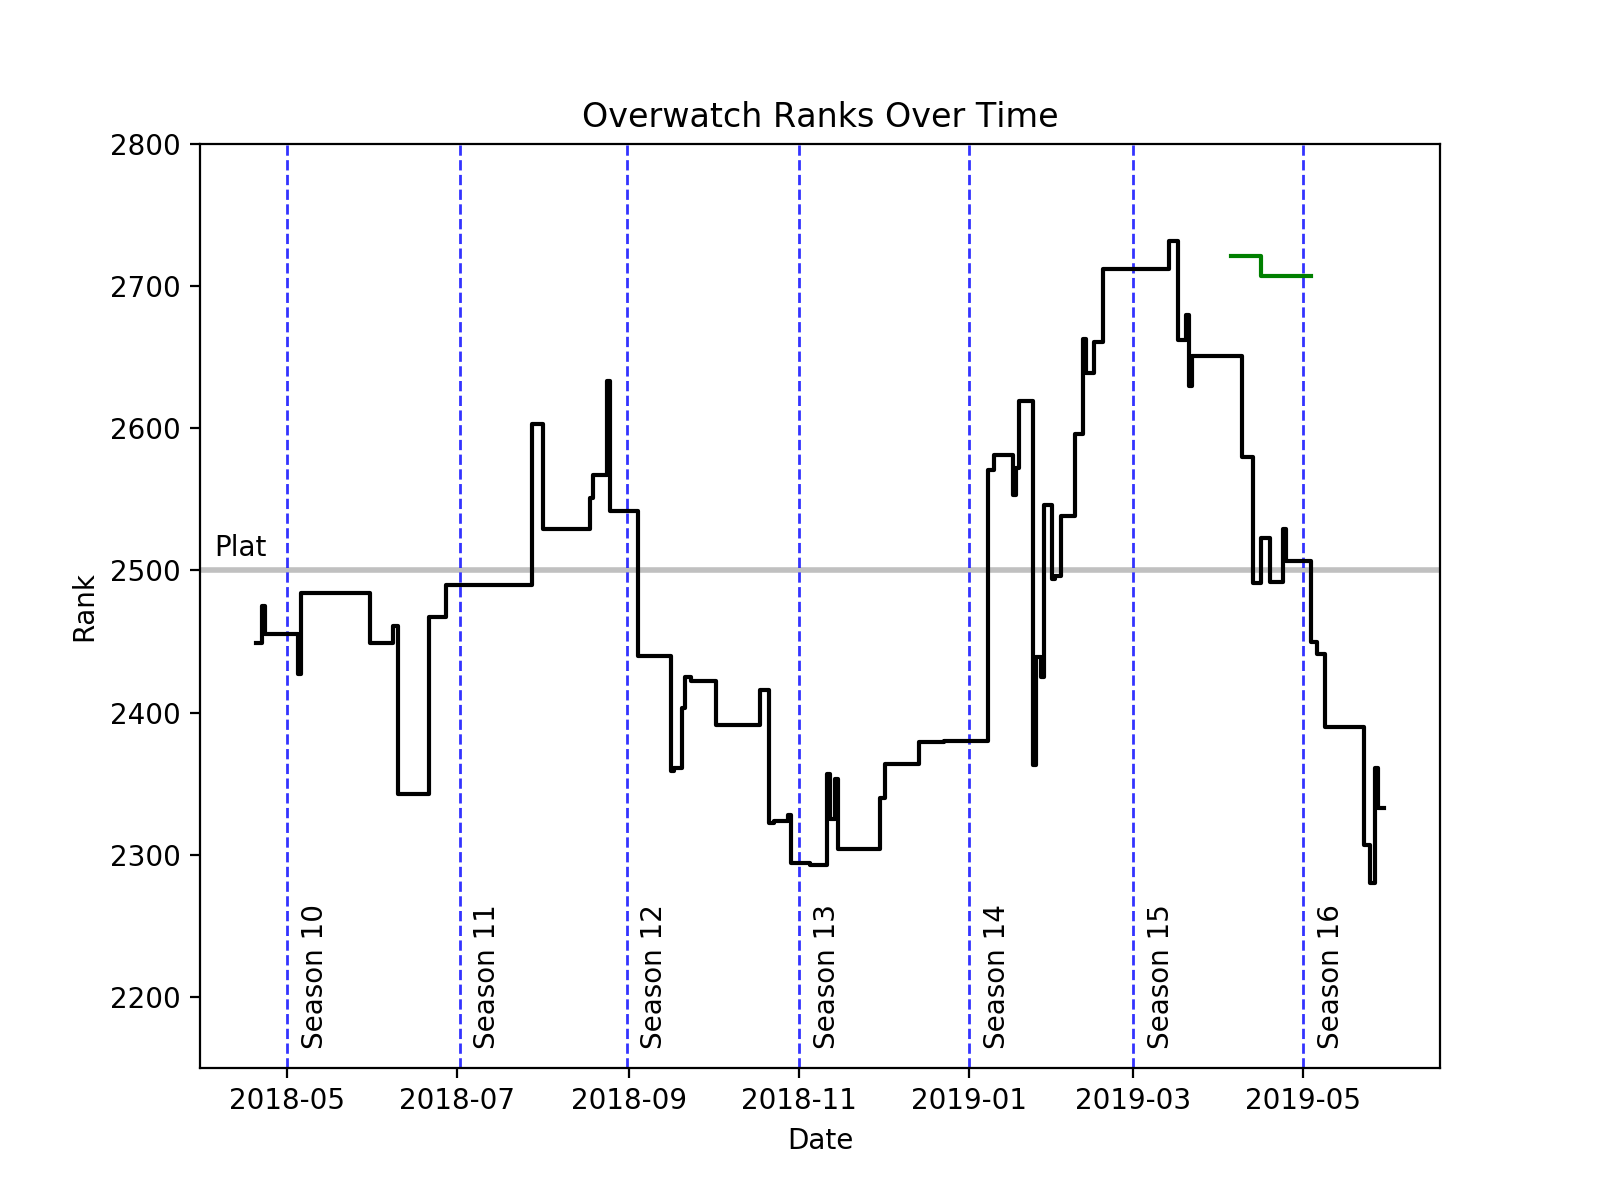
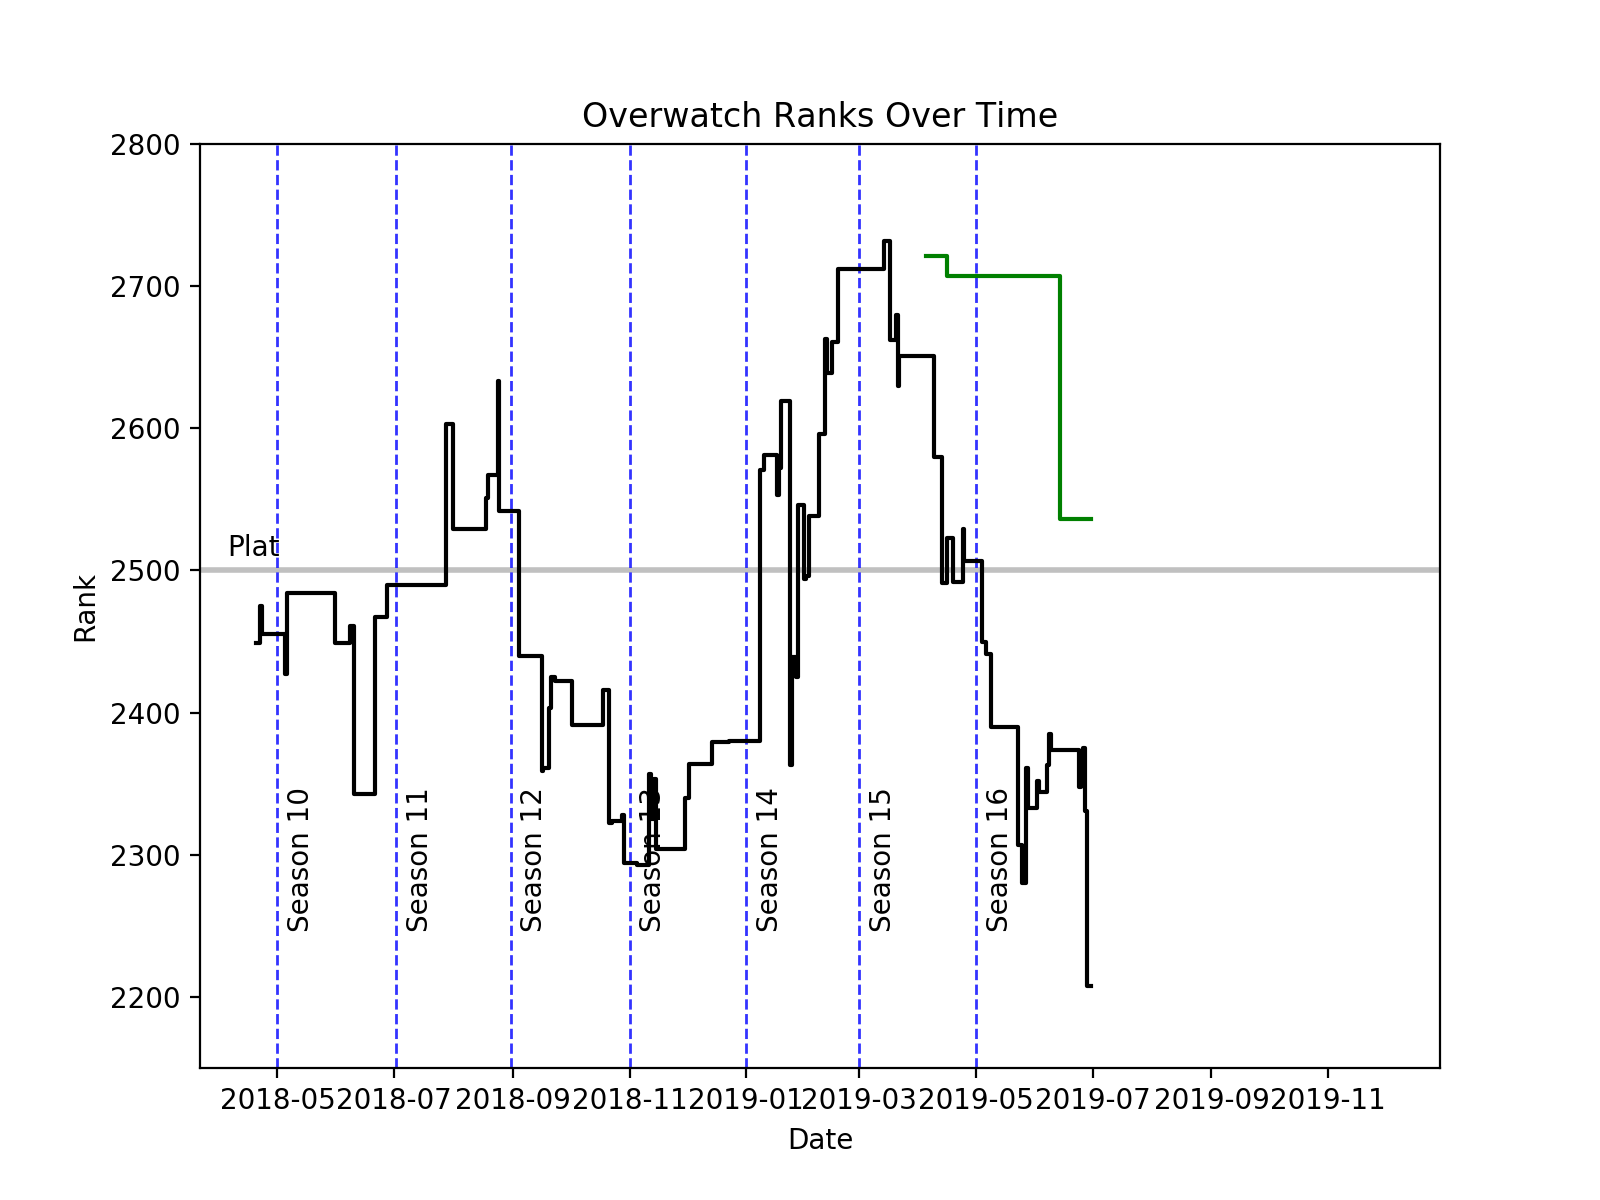
Fixed role queue changes, plotting needs work

diff --git a/plot_ow_ranks.py b/plot_ow_ranks.py
@@ -3,11 +3,19 @@ mpl.use("Agg")
 import matplotlib.pyplot as plt
 from astropy.time import Time
 from astropy.io import ascii
+import starcoder42 as s
 ranks = ascii.read("ow_ranks.txt", delimiter=":",
                    names=("Time", "PC", "Xbox"))
-print(ranks)
+rranks = ascii.read('ow_rolelock_ranks.txt', names=('Time',
+                        'PCTank', 'PCDamage', 'PCSupport', 'XboxTank',
+                        'XboxDamage', 'XboxSupport'))
+print(rranks)
 good_values = ranks["PC"] != 0
 xgood_values = ranks["Xbox"] != 0
+rgoodt = rranks['PCTank'] != 0
+rgoodd = rranks['PCDamage'] != 0
+rgoods = rranks['PCSupport'] != 0
+print(rranks['PCSupport'])
 fig = plt.figure(figsize=(8, 6), dpi=200)
 ax = fig.gca()
 ax.plot_date(Time(ranks["Time"][good_values]).plot_date,
@@ -17,6 +25,15 @@ ax.plot_date(Time(ranks["Time"][xgood_values]).plot_date,
              ranks["Xbox"][xgood_values], "g-",
              tz=None,
              xdate=True, ydate=False, drawstyle="steps-post", zorder=99)
+ax.plot_date(Time(rranks['Time'][rgoodt]).plot_date,
+                  rranks['PCTank'][rgoodt], '-', c=s.blue, tz=None, xdate=True,
+             ydate=False, drawstyle='steps-post')
+ax.plot_date(Time(rranks['Time'][rgoodd]).plot_date,
+                  rranks['PCDamage'][rgoodd], '-', c=s.red, tz=None, xdate=True,
+             ydate=False, drawstyle='steps-post')
+ax.plot_date(Time(rranks['Time'][rgoods]).plot_date,
+             rranks['PCSupport'][rgoods], '-', c=s.green, tz=None, xdate=True,
+             ydate=False, drawstyle='steps-post')
 
 ax.set_title("Overwatch Ranks Over Time")
 ax.set_xlabel("Date")
@@ -47,3 +64,4 @@ for i, date in enumerate(seasons):
 
 ax.set_ylim(2150, 2800)
 fig.savefig("ow_ranks.png")
+print('complete!')

diff --git a/get_ow_rank.py b/get_ow_rank.py
@@ -9,20 +9,24 @@ print("Get OW Rank started at {}".format(now))
 data = requests.get("https://ow-api.com/v1/stats/pc/us/Starkiller42-11691/"
                     "profile")
 # print(data.json())
-try:
-    rank = int(data.json()["rating"])
-except Exception:
-    rank = 0
+# try:
+pc = {'tank': 0, 'damage': 0, 'support': 0}
+ranks = data.json()["ratings"]
+for rank in ranks:
+    pc[rank['role']] = rank['level']
 
 data = requests.get("https://ow-api.com/v1/stats/xbl/Starkiller625/profile")
 # print(data.json())
-try:
-    xbl_rank = int(data.json()["rating"])
-except Exception:
-    xbl_rank = 0
+# try:
+xranks = data.json()["ratings"]
+xbox = {'tank': 0, 'damage': 0, 'support': 0}
+ranks = data.json()["ratings"]
+for rank in xranks:
+    xbox[rank['role']] = rank['level']
+
 
 rank_path = os.path.join(os.path.dirname(
-        os.path.abspath(__file__)), "ow_ranks.txt")
+        os.path.abspath(__file__)), "ow_rolelock_ranks.txt")
 # print(rank_path)
 with open(rank_path, "r") as fil:
     lines = fil.readlines()
@@ -33,6 +37,11 @@ with open(rank_path, "r") as fil:
 if need_rank:
     with open(rank_path, "a") as fil:
         print("    Writing new SR")
-        fil.write("{}: {}: {}\n".format(now.date(), rank, xbl_rank))
+        fil.write("{}: {}: {}: {}: {}: {}: {}\n".format(now.date(), pc['tank'],
+                                                        pc['damage'],
+                                                        pc['support'],
+                                                        xbox['tank'],
+                                                        xbox['damage'],
+                                                        xbox['support']))
 else:
     print("    SR already written today")
